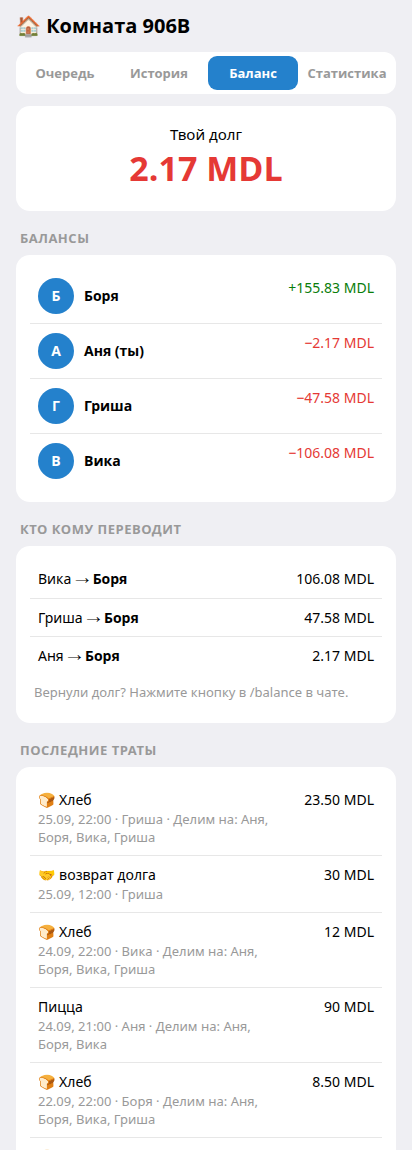
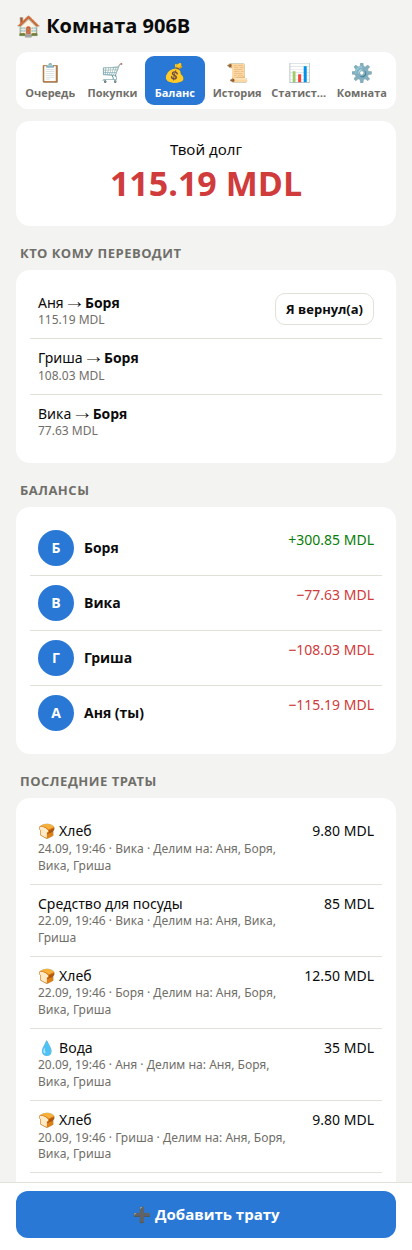
docs: describe the interactive Mini App, new screenshots, bump to 0.5.0

diff --git a/CLAUDE.md b/CLAUDE.md
@@ -1,0 +1,118 @@
+# CLAUDE.md — RoomMate Bot
+
+Контекст проекта и правила работы для Claude Code. Секретов здесь нет и быть не должно
+(токен бота, пароли БД, содержимое `.env` — никогда не писать в этот файл, в код, в коммиты и в чат).
+
+## Проект
+
+Telegram-бот для комнаты в общежитии — **@roommates906B_bot**: очереди (хлеб, вода, мусор,
+свои категории), напоминания, «вне очереди», голосование 👍/🤨, деньги и долги, список покупок,
+режим отъезда, статистика, достижения, экспорт CSV. Плюс **Telegram Mini App**.
+
+- Репозиторий: https://github.com/Xaveron/roommate-bot (ветка `main`), локально `~/Desktop/BOT_906B`.
+- Стек: Python 3.12, aiogram 3, SQLAlchemy 2 async + Alembic, APScheduler, Fluent i18n (ru/ro/en).
+  БД: SQLite локально и в тестах, PostgreSQL в проде.
+- Mini App: фронтенд `webapp/` (React 19 + Vite 8 + TypeScript 5.9 + Recharts, тесты vitest 4 +
+  happy-dom), бэкенд `bot/webapi/` (FastAPI, авторизация `Authorization: tma <initData>`,
+  подпись initData проверяется токеном бота).
+- Деплой: Docker Compose (`docker-compose.prod.yml`: bot, webapp, postgres, caddy) + Caddy (HTTPS).
+
+## Устройство кода
+
+- `bot/handlers/` — Telegram (aiogram). `bot/services/` — бизнес-логика, **не импортирует aiogram**.
+  `bot/db/repositories/` — доступ к БД. Новая логика — в services, с юнит-тестами.
+- `bot/announcements.py` — всё, что жильцы видят в Telegram после действия (объявления в группе,
+  напоминания следующему, достижения). Общее для хендлеров бота и Mini App API: действие
+  в приложении даёт тот же эффект, что и в боте.
+- `bot/db/locks.py` — `lock_room()`: `pg_advisory_xact_lock` по id комнаты (на SQLite — no-op).
+  Бот и webapp — **разные процессы**, поэтому каждая единица работы, меняющая комнату, берёт
+  этот лок (middleware группы, сервисы, `Action` в API, тик планировщика).
+- `bot/webapi/routes.py` — чтение; `bot/webapi/actions.py` (очередь, деньги, покупки, отъезд) и
+  `bot/webapi/manage.py` (настройки, категории, жильцы, вступление/выход, экспорт) — изменения.
+  Права — `bot/permissions.py` (`can_manage`, `is_in_chat`), общие для бота и API.
+  `Action` (`bot/webapi/deps.py`): одна транзакция с локом комнаты с самого начала,
+  `Idempotency-Key` → повтор получает сохранённый ответ (`api_requests`), ошибки сервисов
+  (`ServiceError`) → `{"detail": {"code", "message"}}` на языке комнаты (`bot/webapi/app.py`).
+- Webapp **только отправляет** сообщения через Bot API (и читает getChatMember для прав),
+  никогда не делает polling — getUpdates только у процесса бота.
+- Права как в боте: настройки и удаление категорий/жильцов — админы чата и создатель комнаты
+  (`can_manage`); добавлять категории и отмечать дела может любой жилец.
+- Тексты: бот — `bot/locales/{ru,ro,en}/bot.ftl` (ключ добавлять во все три, `tests/test_i18n.py`
+  проверяет); Mini App — `webapp/src/i18n/{ru,ro,en}.ts` (TypeScript проверяет полноту).
+- Миграции: Alembic (`migrations/versions/000N_*.py`), `tests/test_migrations.py` сверяет с моделями.
+- Комментарии в коде — на английском. README — английский + `README.ru.md`. Общение с пользователем — по-русски.
+
+## Команды
+
+```bash
+# бэкенд (локально venv на Python 3.14; Docker и CI — 3.12)
+.venv/bin/pytest -q
+.venv/bin/ruff check . && .venv/bin/ruff format --check .
+# те же тесты на PostgreSQL (реальная конкуренция, advisory locks):
+docker run -d --rm --name roommate-test-pg -e POSTGRES_PASSWORD=test -e POSTGRES_DB=roommate_test \
+  -p 127.0.0.1:55432:5432 postgres:16-alpine
+TEST_DATABASE_URL=postgresql+asyncpg://postgres:test@127.0.0.1:55432/roommate_test .venv/bin/pytest -q
+docker stop roommate-test-pg
+
+# фронтенд (Node 20.19)
+cd webapp && npm run typecheck && npm test && npm run build
+```
+
+Локальные особенности: headless chromium с `--window-size` < 500px неверно меряет ширину
+(минимальная ширина окна) — либо снимать на 600px, либо задавать ширину через DevTools
+(`Emulation.setDeviceMetricsOverride`). Скриншоты `docs/screenshots/` (412px, статистика 600px)
+сняты с локального предпросмотра: FastAPI `create_app` на временной SQLite с демо-данными,
+фейковая сессия aiogram и заглушка `window.Telegram.WebApp` (platform `unknown` → приложение
+рисует свои MainButton/BackButton). Реального токена бота у Claude нет: Telegram-слой тестируется через
+фейковую сессию aiogram (`tests/test_bot_flow.py::FakeSession`).
+
+## Прод
+
+- VPS `194.62.105.206` (Ubuntu 24.04), вход только `deploy` по SSH-ключу, root/пароли выключены.
+- Стек в `/opt/roommate-bot` (git clone с GitHub; сервер берёт код через `git pull`),
+  `docker compose -f docker-compose.prod.yml` (project `roommate-prod`), `.env` с правами 600.
+- Mini App: https://194-62-105-206.sslip.io (Caddy, `WEBAPP_DOMAIN` в `.env`).
+- Бэкап БД: `scripts/backup_db.sh` → `backups/` (cron ежедневно 03:30 UTC, хранится 14).
+- Обновление (всегда с бэкапом перед обновлением):
+
+  ```bash
+  ssh deploy@194.62.105.206
+  cd /opt/roommate-bot && scripts/backup_db.sh && git pull \
+    && docker compose -f docker-compose.prod.yml up -d --build \
+    && docker compose -f docker-compose.prod.yml logs --since 5m bot webapp
+  ```
+
+  Миграции применяет бот при старте (`AUTO_MIGRATE`), webapp — нет.
+
+## Правила работы
+
+- **НЕ делать `git commit` и `git push`** (и вообще ничего, что меняет историю git) — коммитит и
+  пушит пользователь сам.
+- **Никогда** не добавлять `Co-Authored-By: Claude`, «Generated with Claude Code» и любую подпись
+  Claude — ни в коммиты, ни в PR, ни в файлы.
+- В конце каждой задачи/этапа: прогнать pytest, ruff (check + format --check), typecheck и
+  тесты фронтенда; кратко отчитаться; дать готовые команды коммитов (Conventional Commits,
+  каждый с точным `git add <пути>`) и команду обновления сервера с бэкапом перед обновлением.
+- Работа идёт по этапам; следующий этап начинать только после «ок» пользователя.
+- Решения пользователя: «сделал вне очереди» = кредит (следующая своя очередь пропускается,
+  сначала гасит долг за пропуск); away/back сбрасывают только долги за пропуск, кредиты остаются;
+  справедливый режим нормирует счётчики за 30 дней на дни присутствия; напоминания по умолчанию:
+  хлеб/вода 18:00, мусор 20:00, каждый день.
+
+## Этапы
+
+1. Ядро. 2. Справедливость, напоминания, отъезд, подтверждения. 3. Деньги, покупки, статистика,
+достижения, экспорт. 4. Mini App только для чтения (0.4.0). Этапы 1–4 закоммичены и работают на сервере.
+
+**Этап 5 — весь функционал бота в Mini App** (текущий, версия 0.5.0; части 1 и 2 реализованы
+и протестированы, ждут проверки и «ок» пользователя; не закоммичено):
+- Часть 1 — задачи и очередь (Куплю / Готово + сумма / Ещё есть / Не могу сегодня, вне очереди,
+  голосование 👍/🤨), деньги (трата с выбором, на кого делить; «Я вернул долг»), покупки (список,
+  добавить, куплено, «Иду в магазин»), отъезд (до даты, «Я уже дома»).
+- Часть 2 — настройки (только админы и создатель комнаты), участники (список, вступить/выйти,
+  убрать жильца), экспорт CSV, переключатель комнат.
+- Требования: API вызывает те же services с теми же проверками прав; тот же эффект в Telegram;
+  advisory lock + тест одновременного «Готово» из бота и приложения
+  (`tests/test_concurrency.py`); идемпотентность; понятные ошибки; MainButton/BackButton/
+  HapticFeedback; подтверждение опасных действий; автообновление данных; тёмная/светлая тема;
+  тексты ru/ro/en; тесты API на каждое действие (права, чужие комнаты), фронтенд-тесты, typecheck.

diff --git a/README.md b/README.md
@@ -17,9 +17,11 @@ Interface languages: 🇷🇺 Russian, 🇷🇴 Romanian and 🇬🇧 English, c
 
 The Mini App (opened from the bot), with demo data:
 
-| Queue | History | Balance | Statistics |
-|:---:|:---:|:---:|:---:|
-| <img src="docs/screenshots/queue.png" width="200" alt="Queues of every category"> | <img src="docs/screenshots/history.png" width="200" alt="History table"> | <img src="docs/screenshots/balance.png" width="200" alt="Balances and transfers"> | <img src="docs/screenshots/stats.png" width="200" alt="Monthly statistics with charts"> |
+| Queue | Shopping list | Balance |
+|:---:|:---:|:---:|
+| <img src="docs/screenshots/queue.png" width="200" alt="Queues with the answers to a reminder"> | <img src="docs/screenshots/shopping.png" width="200" alt="Shopping list"> | <img src="docs/screenshots/balance.png" width="200" alt="Balances, transfers and expenses"> |
+| **History** | **Statistics** | **Room** |
+| <img src="docs/screenshots/history.png" width="200" alt="History with 👍 / 🤨 votes"> | <img src="docs/screenshots/stats.png" width="200" alt="Monthly statistics with charts"> | <img src="docs/screenshots/room.png" width="200" alt="Roommates, settings and categories"> |
 
 ## Features
 
@@ -57,9 +59,12 @@ The Mini App (opened from the bot), with demo data:
   is a leaderboard. Achievements include 👑 Bread King, 🥷 Trash Ninja and 🔥 No Skips. The
   group gets a weekly summary on Sunday evening.
 - **Export.** `/export` sends CSV files: one per category plus the expenses.
-- **Mini App** (`/app` or the **📱 App** menu button). It shows queues, a history table, balances
-  and statistics with interactive charts, adapts to the Telegram light and dark themes, and is
-  available in ru, ro and en.
+- **Mini App** (`/app` or the **📱 App** menu button). Everything the bot does, in one app:
+  answer reminders and mark chores (with what they cost), vote 👍 / 🤨, add expenses and settle
+  debts, keep the shopping list, go away and come back, and — for chat admins and the room
+  creator — change settings, categories and roommates. Plus a history table, balances,
+  statistics with interactive charts and CSV export. Every action has the same effect in
+  Telegram as in the bot. It follows the Telegram light and dark themes and speaks ru, ro and en.
 - **Resilient delivery.** If a roommate never opened the bot in private chat, the reminder
   goes to the group chat instead, with a mention and a hint.
 
@@ -70,6 +75,7 @@ The Mini App (opened from the bot), with demo data:
 - [x] **Stage 3:** expenses and balances, shopping list, statistics and charts,
       achievements, weekly summary, CSV export
 - [x] **Stage 4:** Telegram Mini App (React + Vite, FastAPI, Caddy HTTPS)
+- [x] **Stage 5:** everything the bot can do, in the Mini App
 
 ## Commands
 
@@ -162,9 +168,9 @@ turned off in `/settings`.
 
 ## Mini App
 
-The frontend is React + Vite (`webapp/`). The backend is a small read-only FastAPI app
-(`bot/webapi/`) that uses the same database and services as the bot. In production, both run
-behind Caddy, which provides HTTPS with automatic Let's Encrypt certificates.
+The frontend is React + Vite (`webapp/`). The backend is a small FastAPI app (`bot/webapi/`)
+that uses the same database and services as the bot. In production it runs as a separate
+container behind Caddy, which provides HTTPS with automatic Let's Encrypt certificates.
 
 - **Authentication.** Every API request carries `Authorization: tma <Telegram.WebApp.initData>`.
   The backend recomputes the HMAC-SHA256 signature with a key derived from the bot token (as
@@ -172,7 +178,23 @@ behind Caddy, which provides HTTPS with automatic Let's Encrypt certificates.
   and compares it in constant time. It rejects stale data (`auth_date` older than
   `WEBAPP_INITDATA_MAX_AGE`) and duplicated fields. There are no passwords or cookies.
 - **Access.** A user only sees rooms where they are an active member. Other rooms return 404,
-  so room ids can't be probed.
+  so room ids can't be probed. Rights are the bot's: anybody who lives in the room marks
+  chores, adds expenses and categories; settings, changing or deleting categories and removing
+  roommates are for chat admins and the room creator (Telegram is asked via `getChatMember`).
+  Somebody from the group chat who hasn't joined yet can join from the app.
+- **Same effect as the bot.** Actions call the same services and post the same messages: the
+  group gets the announcement with 👍 / 🤨, the next roommate gets the reminder, the reminder
+  message in private chat is updated, achievements are congratulated. The app only *sends*
+  through the Bot API; only the bot process receives updates.
+- **Two processes, one room.** The bot and the app are separate processes, so every change of a
+  room runs in one transaction that first takes a PostgreSQL advisory lock of the room
+  (`bot/db/locks.py`). "Done" pressed in Telegram and in the app at the same moment counts once.
+- **Retries are safe.** Every action carries an `Idempotency-Key`; a repeated request (a lost
+  response, a double tap) gets the first answer instead of doing the action twice. Errors come
+  as `{"detail": {"code", "message"}}` with the message in the room's language.
+- **In the app.** Telegram's MainButton and BackButton, haptic feedback, confirmation of
+  destructive actions, and data that refreshes by itself (every few seconds and when you come
+  back to the app), so changes made in the bot show up.
 - **Opening the app.** Use the menu button next to the message field or `/app` in private chat,
   which opens the current room. In a group, `/app` gives a link to private chat, because
   Telegram doesn't allow Mini App buttons in groups. `?tab=balance` opens a specific tab.
@@ -293,7 +315,7 @@ bot/
 ├── middlewares/       # DB session, room context, i18n
 ├── scheduler/         # APScheduler tick
 └── locales/           # ru / ro / en .ftl files
-├── webapi/            # FastAPI backend of the Mini App (initData auth, read-only API)
+├── webapi/            # FastAPI backend of the Mini App (initData auth, reads and actions)
 ├── render.py, charts.py  # message texts and PNG charts for stage 3 features
 migrations/            # Alembic (async)
 webapp/                # Mini App frontend: React + Vite + TypeScript, Recharts

diff --git a/CONTRIBUTING.md b/CONTRIBUTING.md
@@ -31,8 +31,10 @@ pytest
   `pytest` (on SQLite, and on PostgreSQL via `TEST_DATABASE_URL`).
 - **Mini App** (`webapp/`, Node 20.19+). Its texts live in `webapp/src/i18n/{ru,ro,en}.ts`, and
   TypeScript fails the build if a key is missing in one of them. Before you push, run
-  `npm run typecheck && npm test && npm run build`. The API (`bot/webapi/`) is read-only and
-  must keep checking Telegram `initData` for every request.
+  `npm run typecheck && npm test && npm run build`. The API (`bot/webapi/`) must keep checking
+  Telegram `initData` for every request. Its actions go through the same services as the bot
+  (rights included), run as an `Action` that holds the room's lock, and post to Telegram
+  through `bot/announcements.py`, so an action has the same effect wherever it's taken.
 
 ## Commit messages
 
